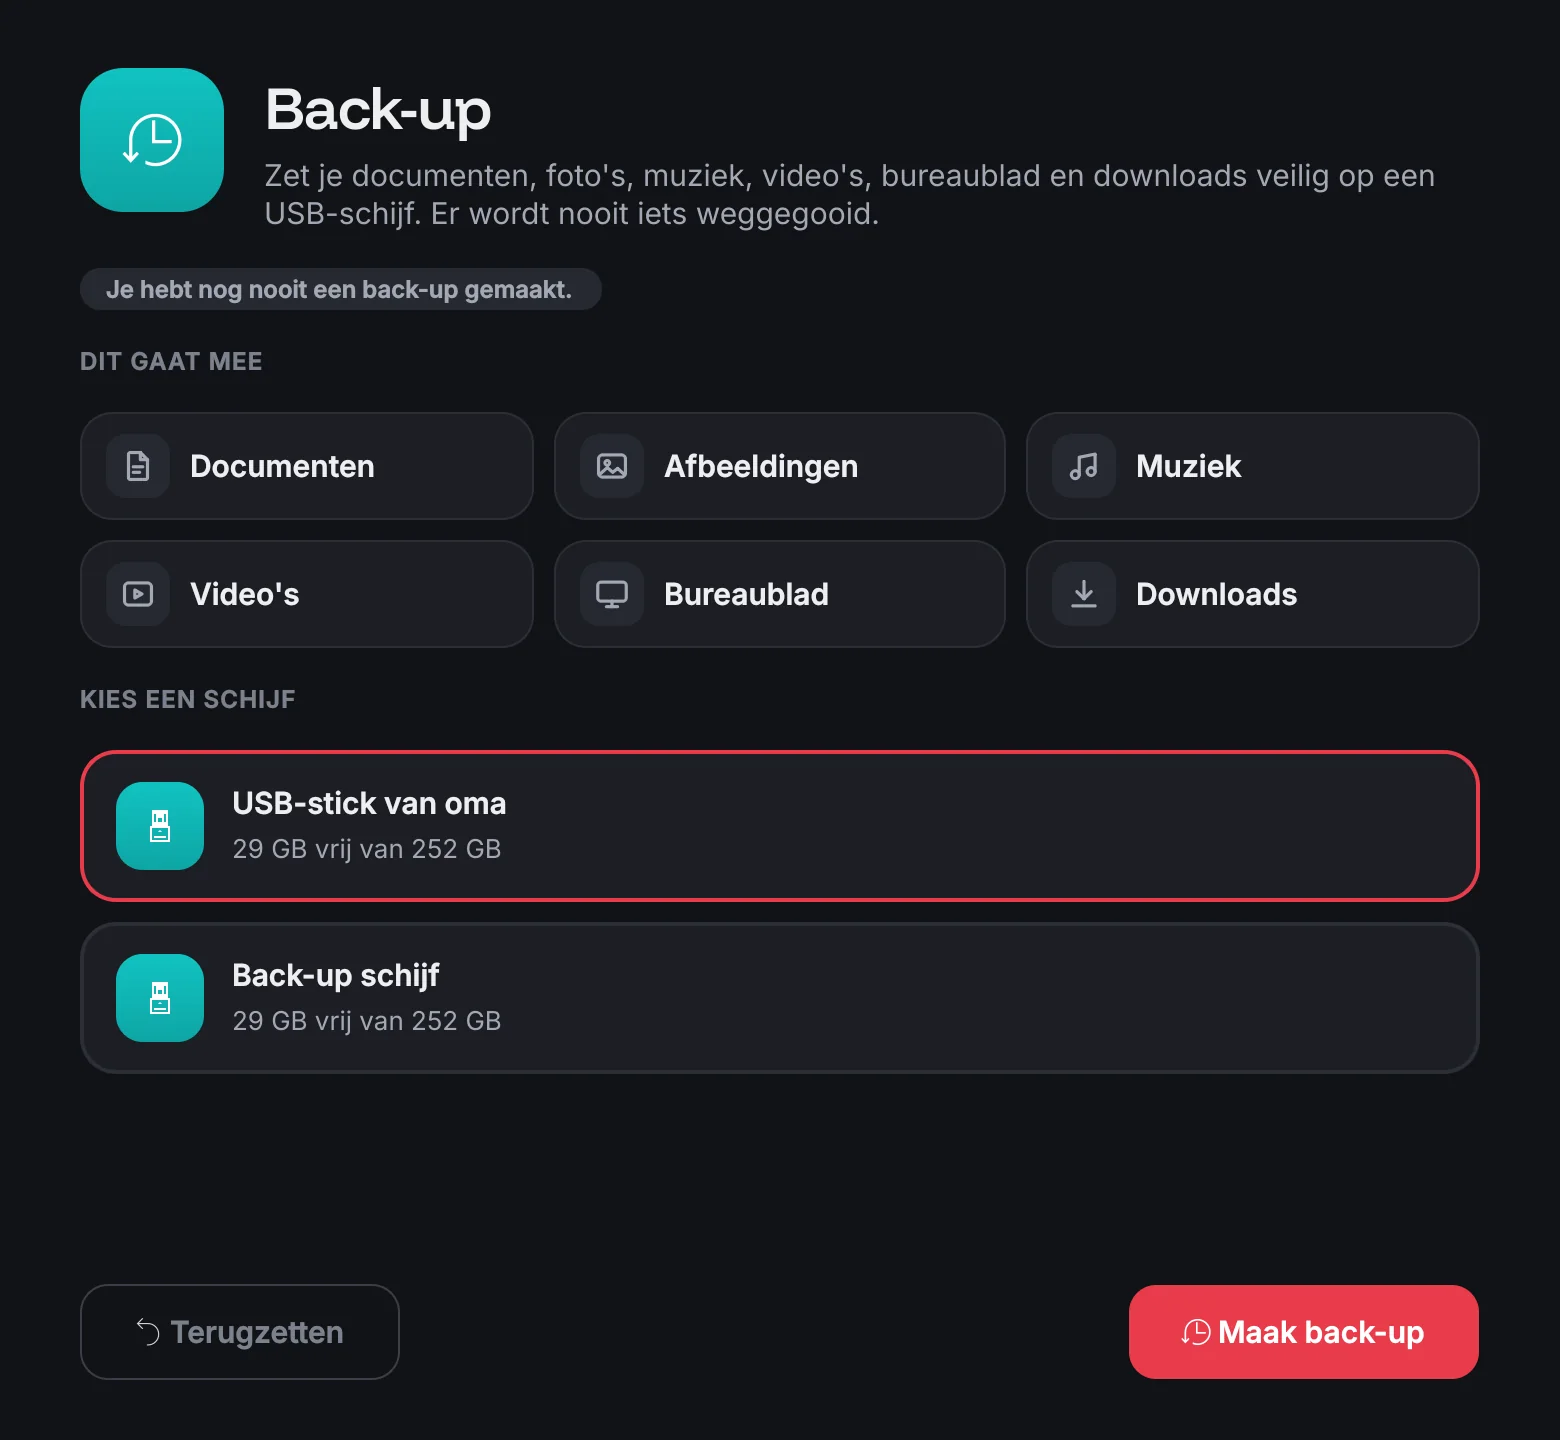
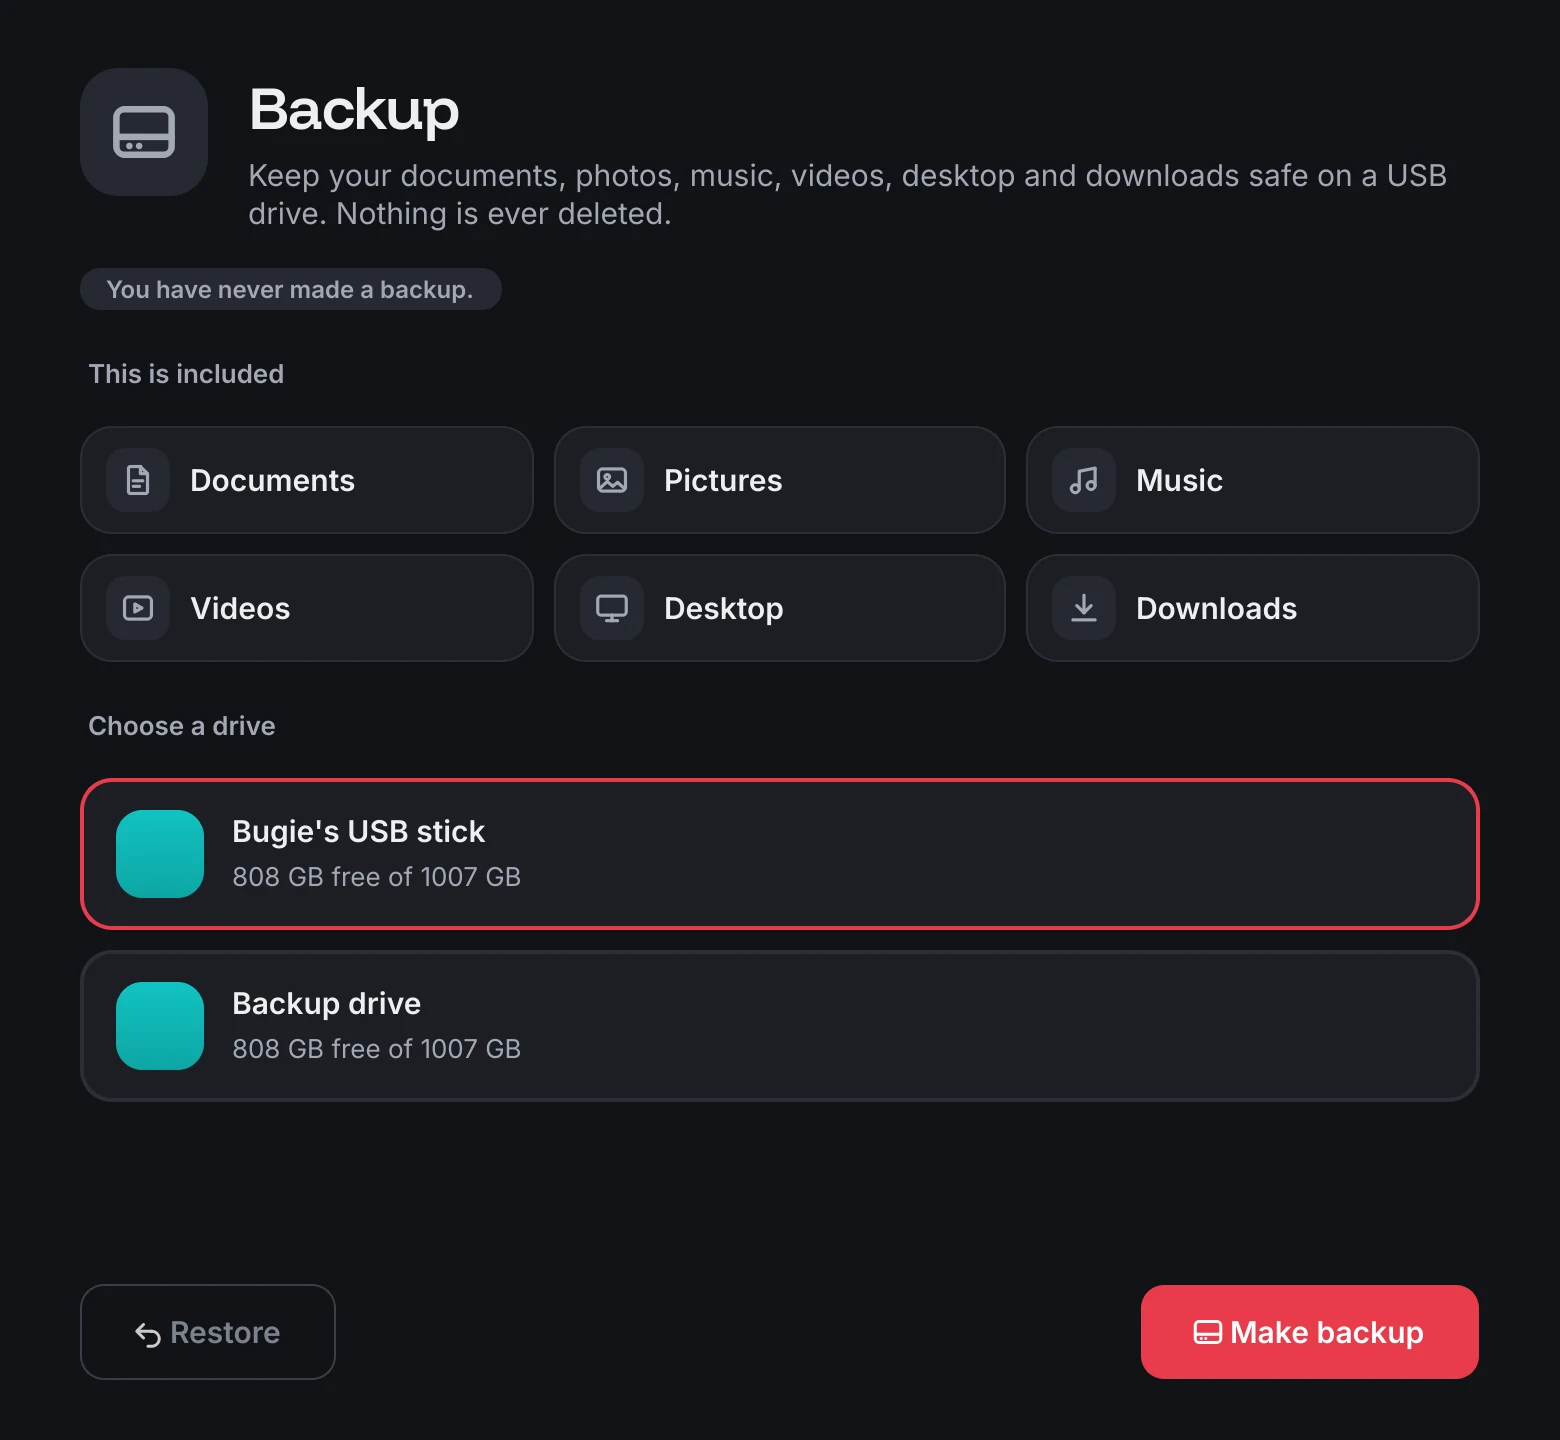
English screenshots for the website, made with a new photo studio
- tools/screenshots/studio.py + studio.sh: run the BugOS apps from this checkout inside the
  BugOS image, without a screen (Qt offscreen, 2x), with example data, and save them as webp
  in website/assets. One command makes every photo again: bash tools/screenshots/studio.sh
- New English photos, light and dark: Welcome, Something is not working, Settings,
  Updates and more, Store (with the real Flathub icons), Backup, Files from Windows,
  Files and the live stick
- Settings demo data: sound outputs in English ("Built-in speakers", "TV (HDMI)")
- explorer.sh: dark mode no longer crashes when kdeglobals has no [General] section
- build.py: finds the logo in tools/brand again (after the rename)

diff --git a/tools/website/page.html b/tools/website/page.html
@@ -531,7 +531,7 @@ details p { color: var(--tekst2); padding: 0 24px 24px; max-width: 46rem; }
         <li class="moment">
           <time datetime="08:30">08:30</time>
           <h3>The computer is ready.</h3><p>Bugie turns on the computer. The updates were already done last night, quietly in the background. Bugie doesn't notice a thing.</p><span class="wie">Automatic updates</span>
-          <figure><div class="venster"><img loading="lazy" data-licht="assets/power-light-crop.webp" data-donker="assets/power-dark-crop.webp" src="assets/power-light-crop.webp" width="1940" height="1100" alt="Settings, On and off: the 'Automatic updates' switch is on."></div></figure>
+          <figure><div class="venster"><img loading="lazy" data-licht="assets/power-light-crop.webp" data-donker="assets/power-dark-crop.webp" src="assets/power-light-crop.webp" width="1760" height="1100" alt="Settings, Updates and more: the 'Automatic updates' switch is on."></div></figure>
         </li>
         <li class="moment">
           <time datetime="10:15">10:15</time>
@@ -541,7 +541,7 @@ details p { color: var(--tekst2); padding: 0 24px 24px; max-width: 46rem; }
         <li class="moment">
           <time datetime="11:30">11:30</time>
           <h3>Photos of the grandkids.</h3><p>In Files, your photos, documents and downloads each have their own place, just like in Windows. You see a small preview of every file right away. Click something, and the bottom shows what you can do with it.</p><span class="wie">The file manager</span>
-          <figure><div class="venster"><img loading="lazy" data-licht="assets/explorer-light.webp" data-donker="assets/explorer-dark.webp" src="assets/explorer-light.webp" width="2360" height="1480" alt="Files, the BugOS file manager: the Pictures folder with red folders and previews of the photos."></div></figure>
+          <figure><div class="venster"><img loading="lazy" data-licht="assets/explorer-light.webp" data-donker="assets/explorer-dark.webp" src="assets/explorer-light.webp" width="2360" height="1480" alt="Files, the BugOS file manager: the Pictures folder with folders and previews of the photos."></div></figure>
         </li>
         <li class="moment">
           <time datetime="13:00">13:00</time>

diff --git a/website/index.html b/website/index.html
@@ -557,7 +557,7 @@ details p { color: var(--tekst2); padding: 0 24px 24px; max-width: 46rem; }
         <li class="moment">
           <time datetime="08:30">08:30</time>
           <h3>The computer is ready.</h3><p>Bugie turns on the computer. The updates were already done last night, quietly in the background. Bugie doesn't notice a thing.</p><span class="wie">Automatic updates</span>
-          <figure><div class="venster"><img loading="lazy" data-licht="assets/power-light-crop.webp" data-donker="assets/power-dark-crop.webp" src="assets/power-light-crop.webp" width="1940" height="1100" alt="Settings, On and off: the 'Automatic updates' switch is on."></div></figure>
+          <figure><div class="venster"><img loading="lazy" data-licht="assets/power-light-crop.webp" data-donker="assets/power-dark-crop.webp" src="assets/power-light-crop.webp" width="1760" height="1100" alt="Settings, Updates and more: the 'Automatic updates' switch is on."></div></figure>
         </li>
         <li class="moment">
           <time datetime="10:15">10:15</time>
@@ -567,7 +567,7 @@ details p { color: var(--tekst2); padding: 0 24px 24px; max-width: 46rem; }
         <li class="moment">
           <time datetime="11:30">11:30</time>
           <h3>Photos of the grandkids.</h3><p>In Files, your photos, documents and downloads each have their own place, just like in Windows. You see a small preview of every file right away. Click something, and the bottom shows what you can do with it.</p><span class="wie">The file manager</span>
-          <figure><div class="venster"><img loading="lazy" data-licht="assets/explorer-light.webp" data-donker="assets/explorer-dark.webp" src="assets/explorer-light.webp" width="2360" height="1480" alt="Files, the BugOS file manager: the Pictures folder with red folders and previews of the photos."></div></figure>
+          <figure><div class="venster"><img loading="lazy" data-licht="assets/explorer-light.webp" data-donker="assets/explorer-dark.webp" src="assets/explorer-light.webp" width="2360" height="1480" alt="Files, the BugOS file manager: the Pictures folder with folders and previews of the photos."></div></figure>
         </li>
         <li class="moment">
           <time datetime="13:00">13:00</time>

diff --git a/tools/screenshots/studio.py b/tools/screenshots/studio.py
@@ -1,0 +1,142 @@
+#!/usr/bin/env python3
+"""The photo studio: screenshots of the BugOS apps for the website and the README.
+
+Runs INSIDE the BugOS image, without a screen (Qt 'offscreen'), at 2x sharpness.
+Every photo is one app in a fixed state with example data (no real drives,
+networks or printers from the computer it runs on). On your own computer, use:
+
+    bash tools/screenshots/studio.sh [image]     # every photo -> website/assets/*.webp
+
+or a single scene, inside the image:
+
+    QT_QPA_PLATFORM=offscreen QT_SCALE_FACTOR=2 LANG=en_US.UTF-8 BUGOS_THEMA=licht \\
+        python3 tools/screenshots/studio.py welcome out.png
+
+BUGOS_BRON points to the folder with the programs (default: the image itself, "/").
+"""
+
+from __future__ import annotations
+
+import json
+import os
+import runpy
+import sys
+import tempfile
+from pathlib import Path
+
+sys.path.insert(0, "/usr/lib/bugos/python")
+
+BRON = os.environ.get("BUGOS_BRON", "/")
+WAIT = 2500  # ms: time for everything to load (lists, checks in the background)
+
+
+def fake_drives() -> str:
+    """Two fake USB drives, with the folder from BugOS Switch (Windows) on the first one."""
+    base = Path(tempfile.mkdtemp(prefix="studio-"))
+    stick, drive = base / "Bugie's USB stick", base / "Backup drive"
+    for d in (stick, drive):
+        d.mkdir()
+    # New name first; the old Dutch name too, for older versions of the app.
+    for folder, file in (("BugOS-Switch", "bugos-switch.json"), ("BugOS-Overstap", "bugos-overstap.json")):
+        (stick / folder).mkdir()
+        (stick / folder / file).write_text(
+            json.dumps({"gebruiker": "Bugie", "computer": "LIVING-ROOM-PC"}), encoding="utf-8")
+    return f"{stick}:{drive}"
+
+
+def help_all_good(g: dict) -> None:
+    """'Something is not working' with everything fine (the build computer has no Wi-Fi or printer)."""
+    Result, OK = g["Uitslag"], g["OK"]
+    good = [("controle_internet", "Internet", "You are connected to the internet."),
+            ("controle_wifi", "Wi-Fi", "Wi-Fi is on."),
+            ("controle_bluetooth", "Bluetooth", "Bluetooth is on."),
+            ("controle_geluid", "Sound", "Sound works."),
+            ("controle_printer", "Printer", "Printer is ready."),
+            ("controle_opslag", "Storage", "Enough space: 212 GB free."),
+            ("controle_updates", "Updates", "Everything is up to date.")]
+    checks = []
+    for name, title, text in good:
+        def check(title=title, text=text):
+            return Result(title, OK, text)
+        check.__name__ = name  # the app picks the icon by this name
+        checks.append(check)
+    g["CONTROLES"][:] = checks
+
+
+def program(*names: str) -> str:
+    """The first program that exists (new English name first, then the old Dutch one in older images)."""
+    for n in names:
+        for base in (BRON, "/"):
+            p = Path(base) / n.lstrip("/")
+            if p.is_file():
+                return str(p)
+    raise SystemExit(f"ERROR: none of these programs exist: {', '.join(names)}")
+
+
+WELCOME = ("usr/bin/bugos-welcome", "usr/bin/bugos-welkom")
+HELP = ("usr/bin/bugos-help", "usr/bin/bugos-hulp")
+SETTINGS = ("usr/bin/bugos-settings", "usr/bin/bugos-instellingen")
+STORE = ("usr/bin/bugos-store", "usr/bin/bugos-winkel")
+BACKUP = ("usr/bin/bugos-backup",)
+SWITCH = ("usr/bin/bugos-switch", "usr/bin/bugos-overstap")
+LIVE = ("../iso_live/src/bugos-live", "usr/bin/bugos-live")
+FILES = ("usr/bin/bugos-files", "usr/bin/bugos-bestanden")
+SAMPLE = {"BUGOS_INSTELLINGEN_VOORBEELD": "1"}
+
+# name: (programs, arguments, extra environment, prepare(globals), state(window), crop (x, y, w, h) in real pixels)
+SCENES = {
+    "welcome": (WELCOME, [], {}, None, lambda w: (w.stapels.setCurrentIndex(2), w.ververs()), None),
+    "help": (HELP, [], {}, help_all_good, None, None),
+    "help-crop": (HELP, [], {}, help_all_good, None, (0, 0, 1760, 1120)),
+    "settings": (SETTINGS, [], SAMPLE, None, None, None),
+    "power-crop": (SETTINGS, ["updates"], SAMPLE, None, None, (480, 0, 1760, 1100)),
+    "store": (STORE, [], {"BUGOS_GEINSTALLEERD": "org.mozilla.firefox,org.videolan.VLC"}, None, None, None),
+    "backup": (BACKUP, [], {"BUGOS_SCHIJVEN": "fake"}, None, None, None),
+    "switch": (SWITCH, [], {"BUGOS_SCHIJVEN": "fake"}, None, None, None),
+    "live": (LIVE, [], {}, None, None, None),
+    # Files needs a home folder with example files: studio.sh starts it through explorer.sh.
+    "files": (FILES, [], {}, None, None, None),
+}
+
+
+def main() -> int:
+    if len(sys.argv) < 3 or sys.argv[1] not in SCENES:
+        print(f"usage: studio.py <{'|'.join(SCENES)}> <out.png> [arguments for the app]", file=sys.stderr)
+        return 2
+    name, out, extra = sys.argv[1], Path(sys.argv[2]), sys.argv[3:]
+    os.environ.setdefault("QT_QPA_PLATFORM", "offscreen")
+    programs, args, env, prepare, state, crop = SCENES[name]
+    path = program(*programs)
+    for k, v in env.items():
+        os.environ[k] = fake_drives() if v == "fake" else v
+
+    import bugos_ui
+    from PySide6.QtCore import QRect, QTimer
+
+    def run(app, window) -> int:
+        window.show()
+        if state:
+            state(window)
+
+        def snap():
+            img = window.grab()
+            if crop:
+                img = img.copy(QRect(*crop))  # real pixels (so already 2x)
+            out.parent.mkdir(parents=True, exist_ok=True)
+            ok = img.save(str(out))
+            print(f"{name}: {img.width()}x{img.height()} -> {out}" if ok else f"ERROR: {name} not saved")
+            app.exit(0 if ok else 1)
+
+        QTimer.singleShot(WAIT, snap)
+        return app.exec()
+
+    bugos_ui.uitvoeren = run  # the apps import this name, so replace it before they load
+    sys.argv = [path, *args, *extra]
+    g = runpy.run_path(path, run_name="studio")
+    if prepare:
+        prepare(g)
+    return (g.get("main") or g["venster"])()  # some apps call it main(), others venster()
+
+
+if __name__ == "__main__":
+    sys.exit(main())

diff --git a/system_files/usr/lib/bugos/python/bugos_config.py b/system_files/usr/lib/bugos/python/bugos_config.py
@@ -280,8 +280,8 @@ def geluid() -> tuple[int, bool, list[Uitgang]]:
     """(volume, stil, uitgangen)."""
     if VOORBEELD:
         return _VB["volume"], _VB["stil"], [
-            Uitgang("speakers", "Ingebouwde luidsprekers", _VB["uitgang"] == "speakers"),
-            Uitgang("hdmi", "Televisie (HDMI)", _VB["uitgang"] == "hdmi"),
+            Uitgang("speakers", "Built-in speakers", _VB["uitgang"] == "speakers"),
+            Uitgang("hdmi", "TV (HDMI)", _VB["uitgang"] == "hdmi"),
             Uitgang("headset", "Bugie's headphones", _VB["uitgang"] == "headset")]
     standaard = draai("pactl", "get-default-sink", timeout=5)[1].strip()
     uit = draai("pactl", "-f", "json", "list", "sinks", timeout=5)[1]

diff --git a/tools/website/build.py b/tools/website/build.py
@@ -16,8 +16,8 @@ from pathlib import Path
 
 HIER = Path(__file__).resolve().parent
 ROOT = HIER.parent.parent
-sys.path.insert(0, str(ROOT / "tools" / "merk"))
-from merk import CX, CY, HR, HX, HY, R, RAND, STIPPEN, merkteken  # noqa: E402
+sys.path.insert(0, str(ROOT / "tools" / "brand"))
+from mark import CX, CY, HR, HX, HY, R, RAND, STIPPEN, merkteken  # noqa: E402
 
 
 def merk_variabel(uid: str) -> str:
